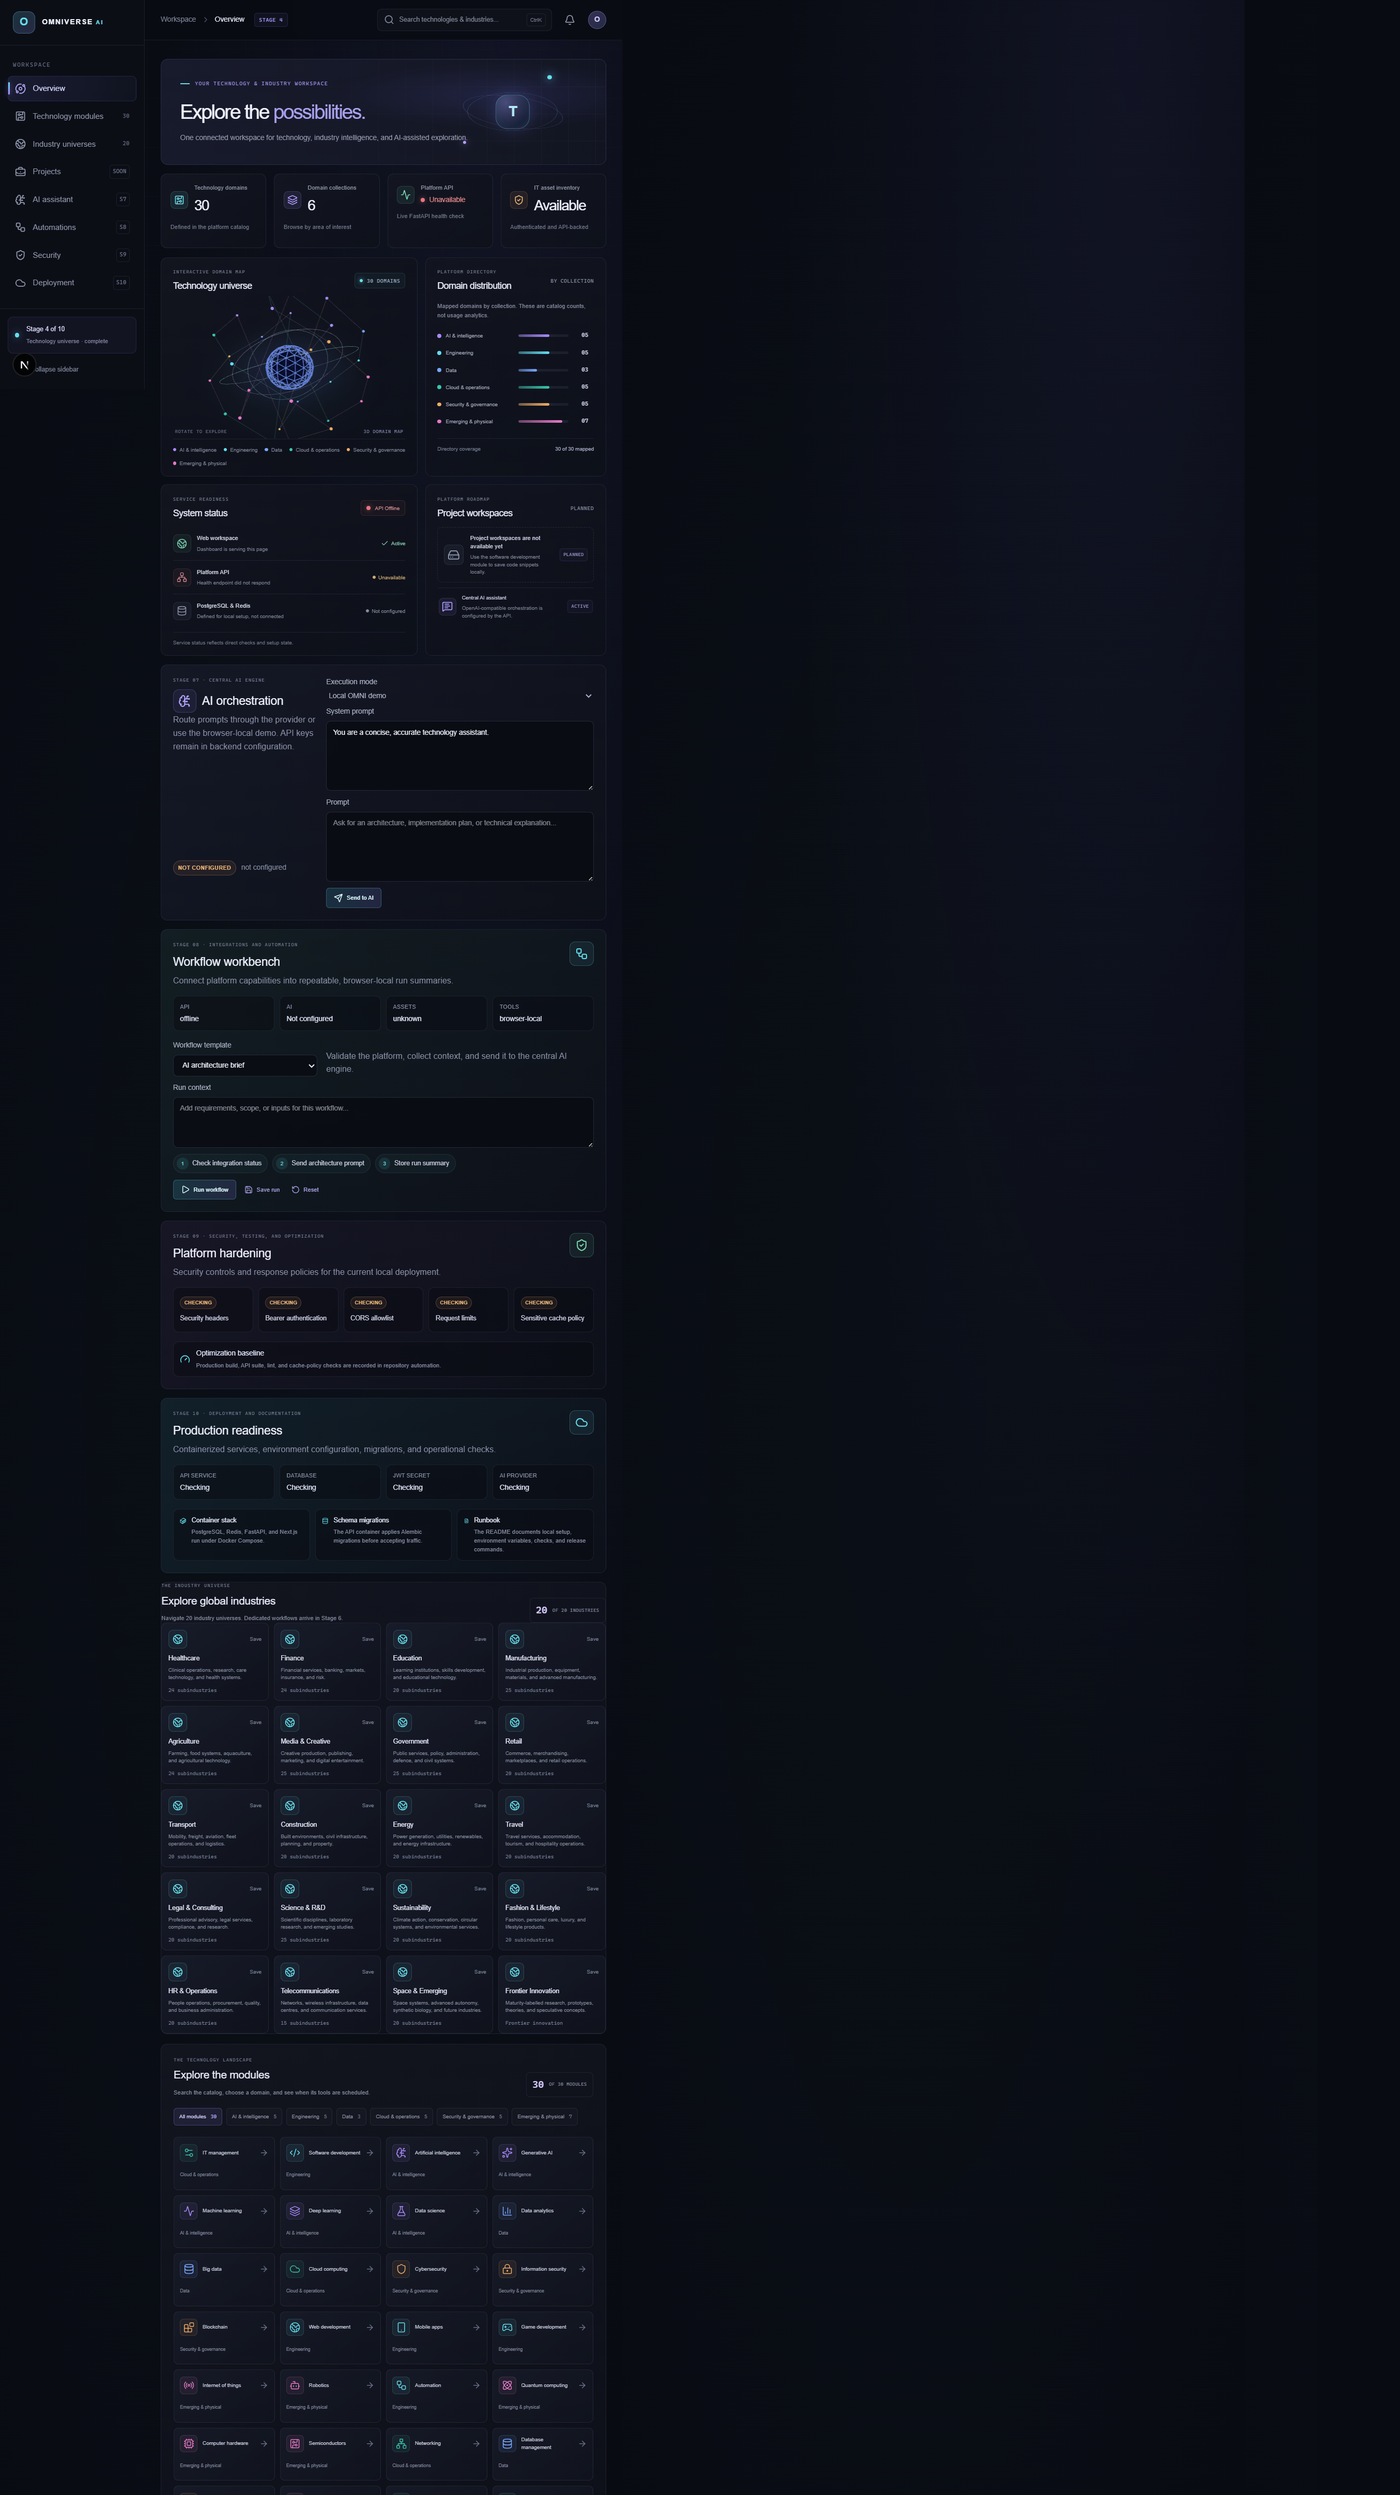
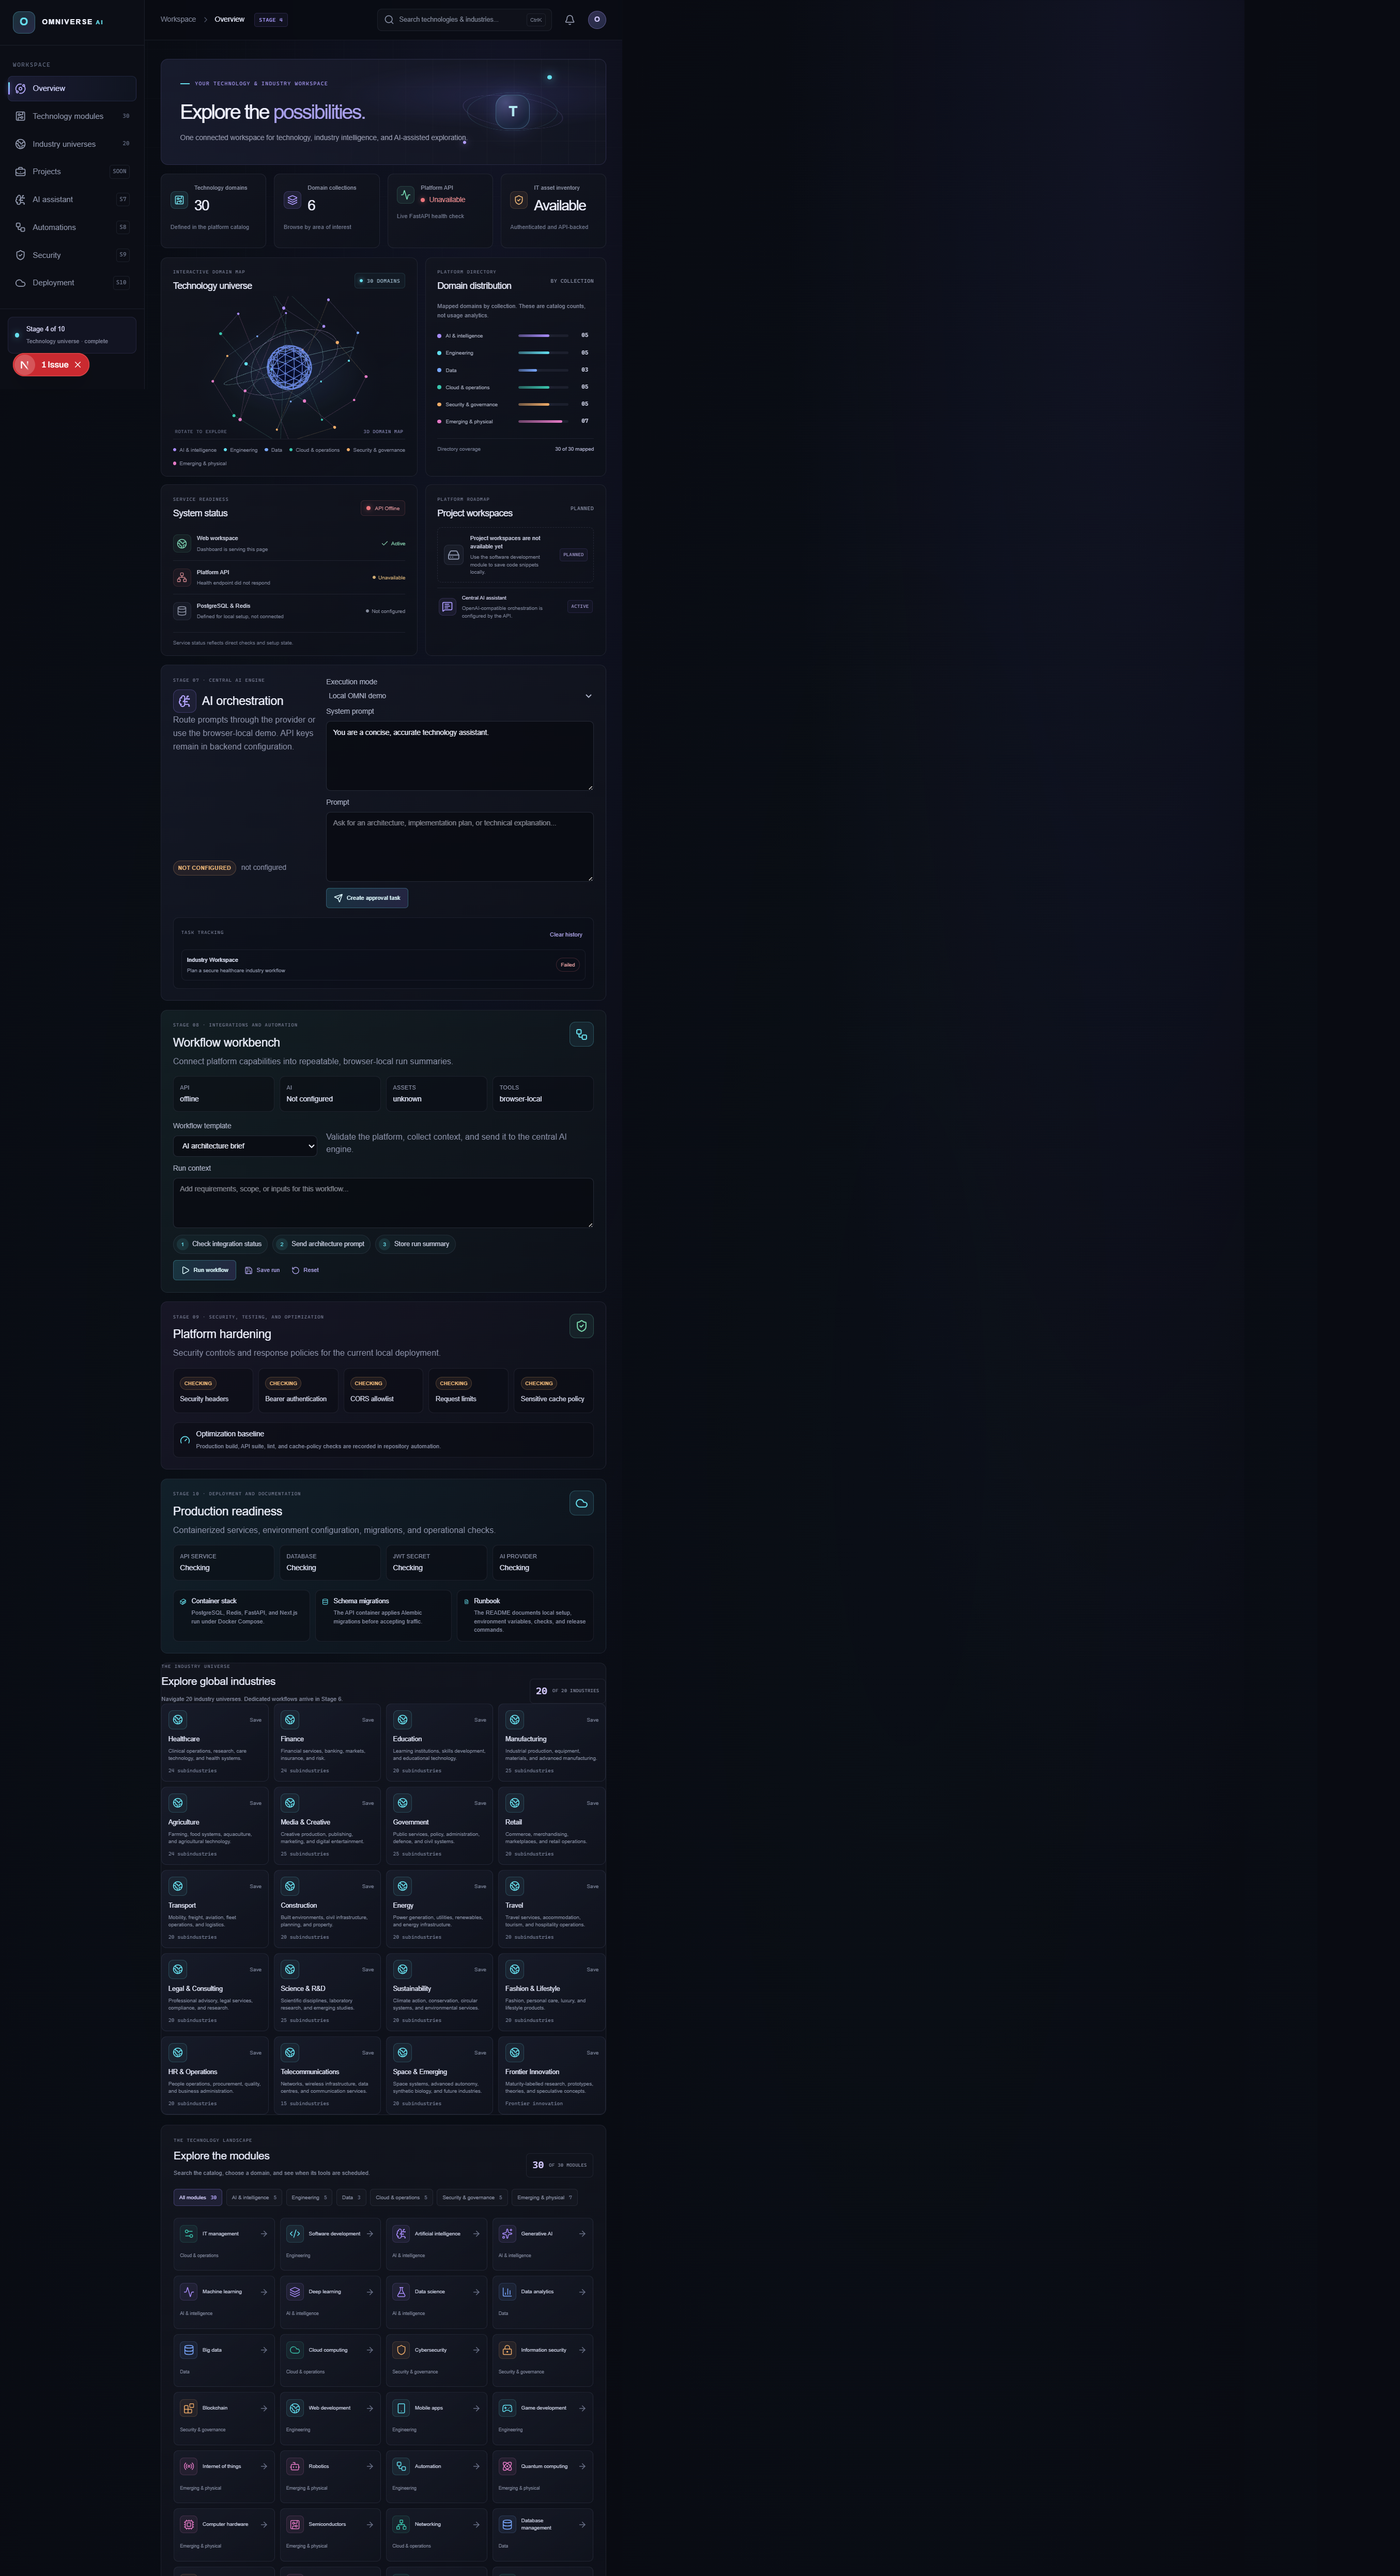
Complete Stage 7 and 8, start Stage 9

diff --git a/apps/web/src/components/CentralAIEngine.tsx b/apps/web/src/components/CentralAIEngine.tsx
@@ -1,7 +1,7 @@
 "use client";
 
 import { useEffect, useState, type FormEvent } from "react";
-import { BrainCircuit, Send, Sparkles } from "lucide-react";
+import { BrainCircuit, Send } from "lucide-react";
 
 type AIStatus = {
   configured: boolean;
@@ -14,6 +14,32 @@ type AIResult = {
   provider: string;
 };
 
+type OmniTask = {
+  id: string;
+  prompt: string;
+  route: string;
+  status: "pending_approval" | "approved" | "completed" | "failed";
+  result?: string;
+  createdAt: string;
+};
+
+const omniTaskStorageKey = "omniverse-ai:omni-tasks";
+
+function routePrompt(message: string) {
+  const normalized = message.toLowerCase();
+  if (normalized.includes("industry") || normalized.includes("healthcare") ||
+    normalized.includes("finance") || normalized.includes("education")) {
+    return "Industry Workspace";
+  }
+  if (normalized.includes("security") || normalized.includes("incident")) {
+    return "Security Operations";
+  }
+  if (normalized.includes("data") || normalized.includes("database")) {
+    return "Data & Intelligence";
+  }
+  return "Technology Workspace";
+}
+
 export default function CentralAIEngine() {
   const [status, setStatus] = useState<AIStatus | null>(null);
   const [prompt, setPrompt] = useState("");
@@ -24,6 +50,25 @@ export default function CentralAIEngine() {
   const [result, setResult] = useState<AIResult | null>(null);
   const [error, setError] = useState("");
   const [loading, setLoading] = useState(false);
+  const [tasks, setTasks] = useState<OmniTask[]>([]);
+
+  useEffect(() => {
+    let saved: OmniTask[] = [];
+    try {
+      saved = JSON.parse(
+        window.localStorage.getItem(omniTaskStorageKey) ?? "[]",
+      ) as OmniTask[];
+    } catch {
+      saved = [];
+    }
+    const timer = window.setTimeout(() => setTasks(saved), 0);
+    return () => window.clearTimeout(timer);
+  }, []);
+
+  const saveTasks = (next: OmniTask[]) => {
+    setTasks(next);
+    window.localStorage.setItem(omniTaskStorageKey, JSON.stringify(next));
+  };
 
   useEffect(() => {
     const baseUrl = (
@@ -51,25 +96,41 @@ export default function CentralAIEngine() {
       return;
     }
 
-    if (demoMode || status?.configured === false) {
-      const normalized = message.toLowerCase();
-      const route = normalized.includes("industry") || normalized.includes("healthcare") ||
-        normalized.includes("finance") || normalized.includes("education")
-        ? "Industry Workspace"
-        : normalized.includes("security") || normalized.includes("incident")
-          ? "Security Operations"
-          : normalized.includes("data") || normalized.includes("database")
-            ? "Data & Intelligence"
-            : "Technology Workspace";
+    const task: OmniTask = {
+      id: crypto.randomUUID(),
+      prompt: message,
+      route: routePrompt(message),
+      status: "pending_approval",
+      createdAt: new Date().toISOString(),
+    };
+    saveTasks([task, ...tasks].slice(0, 12));
+    setPrompt("");
+    setError("");
+    setResult(null);
+  };
 
-      setLoading(true);
-      setError("");
+  const runTask = async (task: OmniTask) => {
+    setLoading(true);
+    setError("");
+    saveTasks(tasks.map((item) =>
+      item.id === task.id ? { ...item, status: "approved" } : item,
+    ));
+
+    if (demoMode || status?.configured === false) {
       setTimeout(() => {
-        setResult({
-          message: `Local OMNI route: ${route}\n\n1. Clarify the objective and expected output.\n2. Identify relevant inputs, constraints, and responsible owners.\n3. Execute a bounded first pass with measurable checkpoints.\n4. Review risks, assumptions, and next actions.\n\nDemo request: ${message}`,
-          model: "OMNI local demo",
-          provider: "Browser-local",
-        });
+        const message =
+          `Local OMNI route: ${task.route}\n\n` +
+          "1. Clarify the objective and expected output.\n" +
+          "2. Identify relevant inputs, constraints, and responsible owners.\n" +
+          "3. Execute a bounded first pass with measurable checkpoints.\n" +
+          "4. Review risks, assumptions, and next actions.\n\n" +
+          `Task: ${task.prompt}`;
+        setResult({ message, model: "OMNI local demo", provider: "Browser-local" });
+        saveTasks(tasks.map((item) =>
+          item.id === task.id
+            ? { ...item, status: "completed", result: message }
+            : item,
+        ));
         setLoading(false);
       }, 350);
       return;
@@ -79,15 +140,12 @@ export default function CentralAIEngine() {
       process.env.NEXT_PUBLIC_API_BASE_URL ?? "http://127.0.0.1:8000"
     ).replace(/\/+$/, "");
 
-    setLoading(true);
-    setError("");
-    setResult(null);
     try {
       const response = await fetch(`${baseUrl}/ai/chat`, {
         method: "POST",
         headers: { "Content-Type": "application/json" },
         body: JSON.stringify({
-          message,
+          message: task.prompt,
           system_prompt: systemPrompt.trim() ||
             "You are a concise, accurate technology assistant.",
         }),
@@ -97,12 +155,21 @@ export default function CentralAIEngine() {
         throw new Error(payload.detail ?? "The AI request failed.");
       }
       setResult(payload);
+      saveTasks(tasks.map((item) =>
+        item.id === task.id
+          ? { ...item, status: "completed", result: payload.message }
+          : item,
+      ));
     } catch (requestError) {
-      setError(
-        requestError instanceof Error
-          ? requestError.message
-          : "The AI request failed.",
-      );
+      const message = requestError instanceof Error
+        ? requestError.message
+        : "The AI request failed.";
+      setError(message);
+      saveTasks(tasks.map((item) =>
+        item.id === task.id
+          ? { ...item, status: "failed", result: message }
+          : item,
+      ));
     } finally {
       setLoading(false);
     }
@@ -159,12 +226,49 @@ export default function CentralAIEngine() {
           />
         </label>
         <button className="asset-primary-button" disabled={loading}>
-          {loading ? <Sparkles size={14} aria-hidden="true" /> : <Send size={14} aria-hidden="true" />}
-          {loading ? "Generating..." : "Send to AI"}
+          <Send size={14} aria-hidden="true" />
+          Create approval task
         </button>
       </form>
 
       {error && <p className="developer-feedback developer-feedback-error" role="alert">{error}</p>}
+      {tasks.length > 0 && (
+        <article className="omni-task-panel" aria-label="OMNI task tracking">
+          <div className="omni-task-heading">
+            <span className="panel-eyebrow">TASK TRACKING</span>
+            <button
+              type="button"
+              className="asset-text-button"
+              onClick={() => saveTasks([])}
+            >
+              Clear history
+            </button>
+          </div>
+          <div className="omni-task-list">
+            {tasks.map((task) => (
+              <div className="omni-task-row" key={task.id}>
+                <div>
+                  <strong>{task.route}</strong>
+                  <span>{task.prompt}</span>
+                </div>
+                <span className={`omni-task-status omni-task-status-${task.status}`}>
+                  {task.status.replace("_", " ")}
+                </span>
+                {task.status === "pending_approval" && (
+                  <button
+                    type="button"
+                    className="asset-primary-button"
+                    onClick={() => void runTask(task)}
+                    disabled={loading}
+                  >
+                    Approve & run
+                  </button>
+                )}
+              </div>
+            ))}
+          </div>
+        </article>
+      )}
       {result && (
         <article className="ai-engine-result" aria-live="polite">
           <div>

diff --git a/apps/web/src/app/globals.css b/apps/web/src/app/globals.css
@@ -3106,6 +3106,75 @@ button.category-link {
   white-space: pre-wrap;
 }
 
+.omni-task-panel {
+  grid-column: 1 / -1;
+  border: 1px solid var(--line);
+  border-radius: 8px;
+  background: rgba(8, 11, 18, 0.42);
+  padding: 12px;
+}
+
+.omni-task-heading,
+.omni-task-row {
+  display: flex;
+  align-items: center;
+  justify-content: space-between;
+  gap: 10px;
+}
+
+.omni-task-list {
+  display: grid;
+  gap: 7px;
+  margin-top: 9px;
+}
+
+.omni-task-row {
+  min-height: 48px;
+  border: 1px solid rgba(145, 156, 198, 0.1);
+  border-radius: 7px;
+  padding: 8px;
+}
+
+.omni-task-row > div {
+  display: grid;
+  min-width: 0;
+  flex: 1;
+  gap: 3px;
+}
+
+.omni-task-row strong {
+  color: #dce1f4;
+  font-size: 9px;
+  font-weight: 500;
+}
+
+.omni-task-row div span {
+  overflow: hidden;
+  color: #929ab0;
+  font-size: 8px;
+  text-overflow: ellipsis;
+  white-space: nowrap;
+}
+
+.omni-task-status {
+  border: 1px solid var(--line);
+  border-radius: 999px;
+  padding: 4px 7px;
+  color: #aeb4c8;
+  font-size: 8px;
+  text-transform: capitalize;
+}
+
+.omni-task-status-completed {
+  border-color: rgba(103, 217, 173, 0.22);
+  color: #8ed7b8;
+}
+
+.omni-task-status-failed {
+  border-color: rgba(235, 116, 123, 0.22);
+  color: #e7a0a3;
+}
+
 @media (max-width: 760px) {
   .ai-engine-panel {
     grid-template-columns: 1fr;

diff --git a/PROJECT_ROADMAP.md b/PROJECT_ROADMAP.md
@@ -61,23 +61,23 @@ Status: **Complete**
 
 ## Stage 7 - Central OMNI AI Agent
 
-Status: **In Progress**
+Status: **Complete**
 
-- [ ] Add OMNI AI routing, planning, approvals, task tracking, and result storage
+- [x] Add OMNI AI routing, planning, approvals, task tracking, and result storage
 - [x] Add a functional browser-local demo mode
 - [x] Keep provider credentials exclusively in the backend
 
 ## Stage 8 - Cross-Module Workflows
 
-Status: **Not Started**
+Status: **Complete**
 
-- Create reusable workflow definitions and executions
-- Add dependency, status, approval, output, and error views
-- Connect technology and industry workspaces
+- [x] Create reusable workflow definitions and executions
+- [x] Add step dependencies and run summaries
+- [x] Connect the integration workbench to dashboard technology and asset capabilities
 
 ## Stage 9 - Database, Security, and Testing
 
-Status: **Not Started**
+Status: **In Progress**
 
 - Expand SQLAlchemy and Alembic models for projects and catalogs
 - Add permissions, organizations, audit events, and saved artifacts

diff --git a/PROJECT_STATUS.md b/PROJECT_STATUS.md
@@ -55,6 +55,10 @@ is preserved.
 | Organization roles and permissions | Planned |
 | Audit events and notifications | Planned |
 | OMNIVERSE AI branding | Implemented / Tested |
+| Industry universe foundation | Implemented / Tested |
+| Industry workspace modes | Implemented / Tested |
+| Central OMNI AI demo | Implemented / Tested |
+| Cross-module workflow workbench | Implemented / Tested |
 
 ## Stage 1 Inspection Findings
 

diff --git a/README.md b/README.md
@@ -19,6 +19,10 @@ An integrated technology workspace delivered across 10 stages. Stages 1–5 prov
 
 ![OMNI AI browser-local demo response](apps/web/public/omni-ai-demo-screenshot.png)
 
+## Workflow workbench preview
+
+![Cross-module workflow execution preview](apps/web/public/workflow-workbench-screenshot.png)
+
 ## Architecture
 
 ```text
